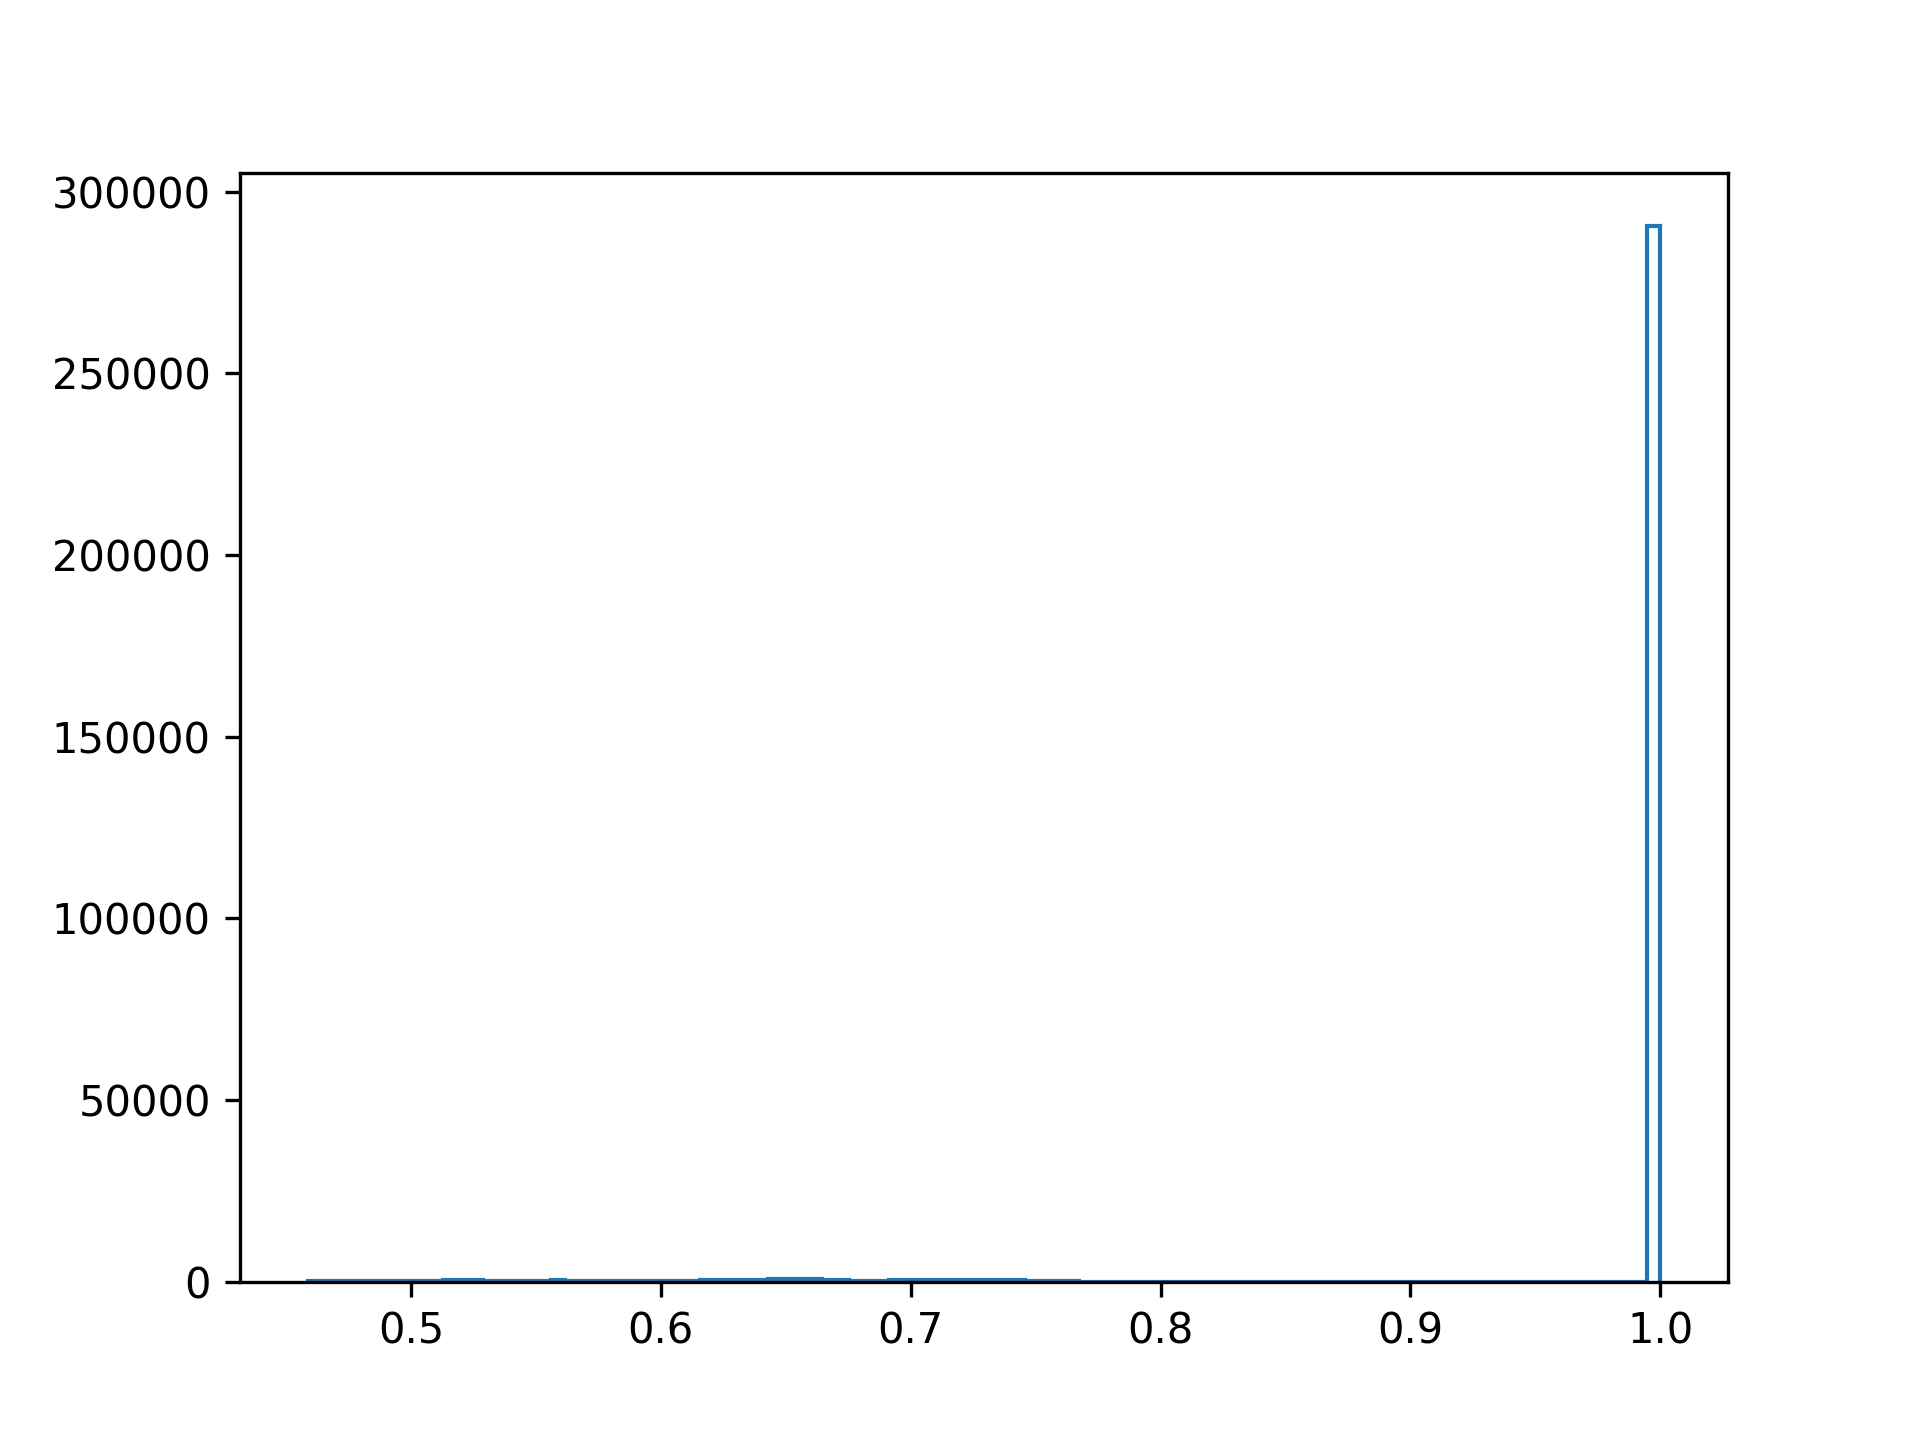
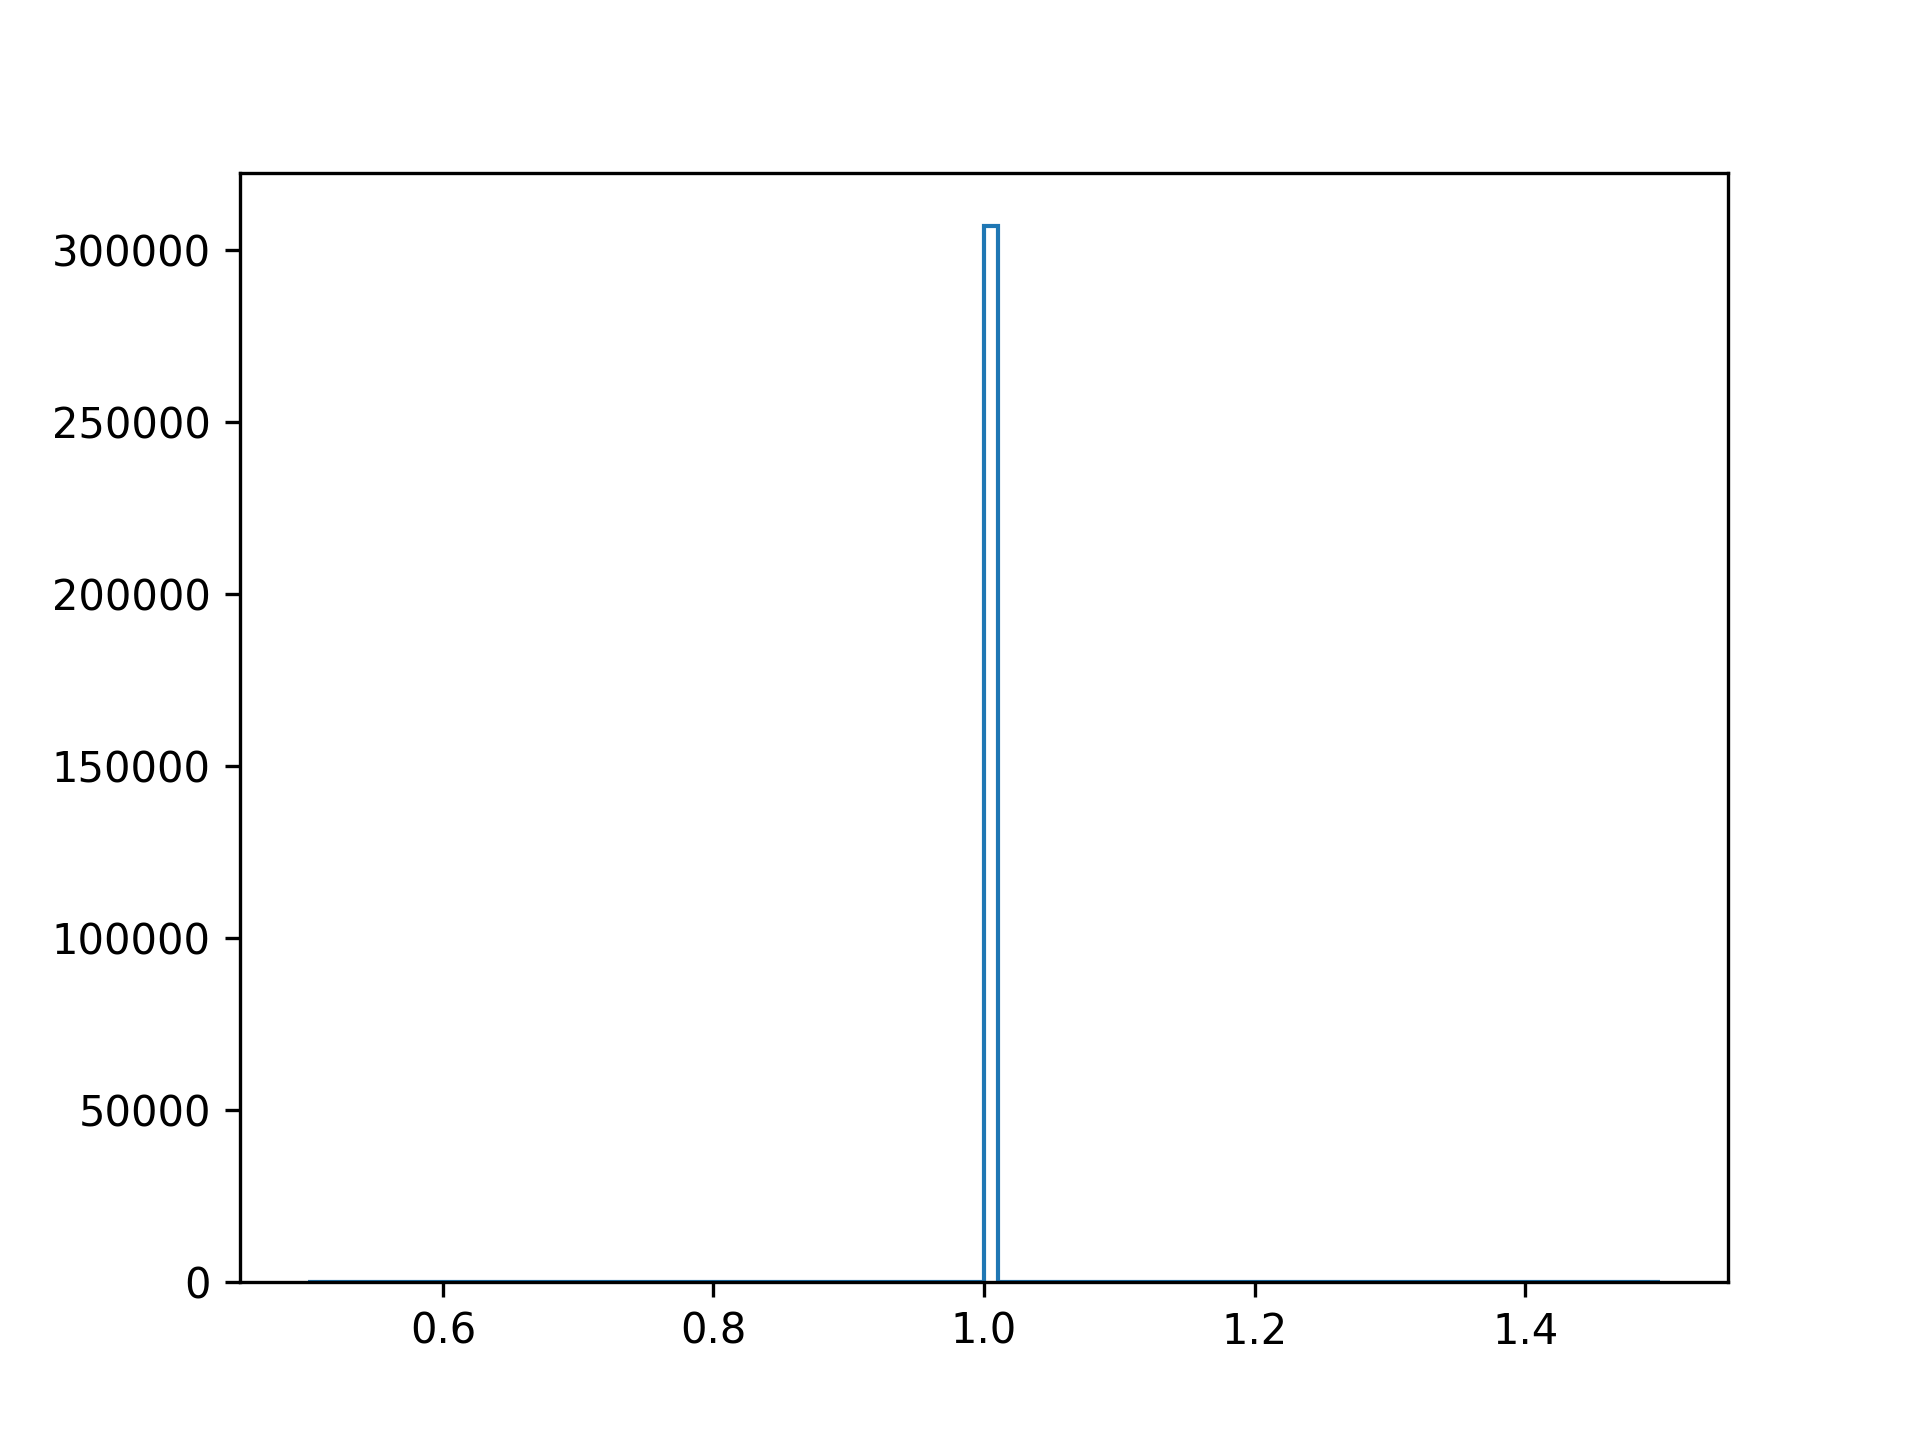
Auto commit

diff --git a/third_test_point_cloud.py b/third_test_point_cloud.py
@@ -18,7 +18,7 @@ print(np.max(depth_map))
 print(np.min(depth_map))
 print(np.mean(depth_map))
 
-min_depth, max_depth = 1, 3
+min_depth, max_depth = 1, 2
 clipped_depth = np.clip(depth_map, min_depth, max_depth)
 normalized_depth = (clipped_depth - min_depth) / (max_depth - min_depth)
 depth_map = normalized_depth
